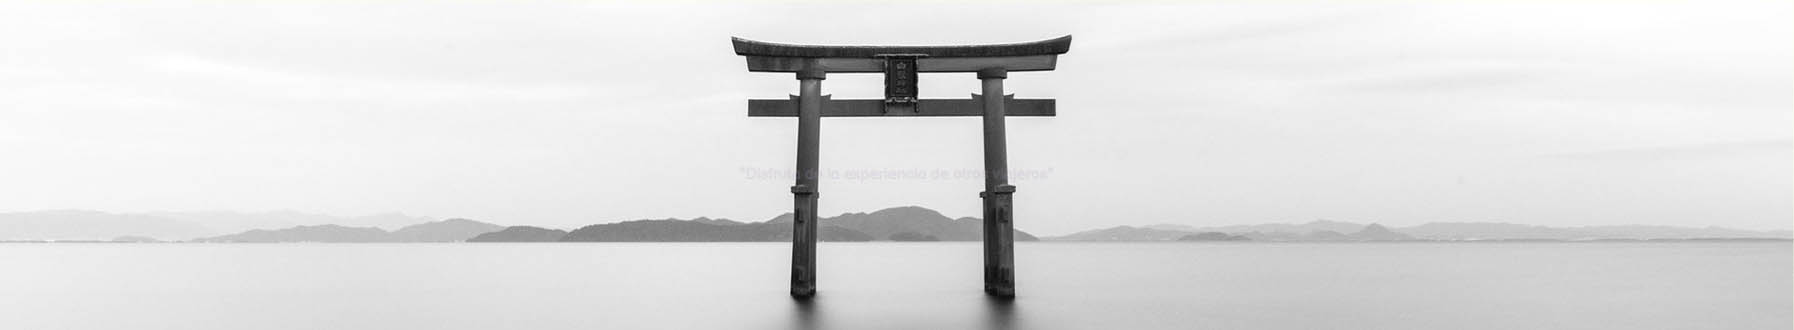
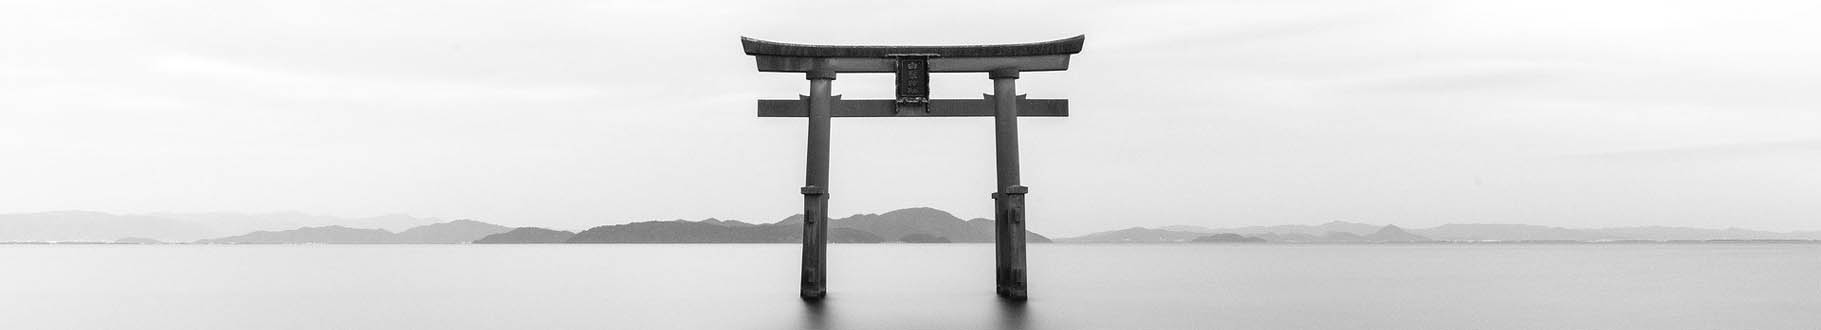
Terminada web en grid

diff --git a/styles.css b/styles.css
@@ -37,6 +37,9 @@ a{
             .nav{
                 grid-template-columns: repeat(autofill, min-content);
             }
+            .nav-mobil{
+                display: none;
+            }
                 .nav a{
                     font-size: 14px;
                     padding: 0 10px;
@@ -62,21 +65,21 @@ a{
                 }
         .texto-principal{
             background: url(imagenes/cabecera1800px.jpg);
-            background-position:50% 65%;
+            background-position:center;
             background-repeat: no-repeat;
             background-attachment: content;
             background-size: cover;
             display: flex;
             align-items: center;
             justify-content: center;
-            height: 200px;
+            height: 330px;
         }    
             h1{
                 color: #e99592;
                 opacity: 80%;
                 background: rgab(0,0,0,.1);
                 font-family: 'Montserrat', serif;
-                font-size:8px;
+                font-size:18px;
                 font-weight: 300px;
                 text-align: center;
                 line-height: 1; /*espacio entrelinea*/           
@@ -140,8 +143,6 @@ a{
         .aside{
             background: #e9e9e9;
             margin: 0px 5px 10px 0;
-            display: flex; 
-            flex-flow: column nowrap;   
         }
             .publicidad{
                 color: #fff;
@@ -159,12 +160,13 @@ a{
         margin: 20px 0;
     }
         .pie{
+            font-size: 9px;
             text-align: center;
         }
 
         
 @media all and (max-width: 800px){
-    .section{
+.section{
         grid-template-columns: 1fr;
         }
 .aside{
@@ -187,11 +189,12 @@ a{
 }
 @media all and (max-width: 400px){    
     .header{
+        display: grid;
         grid-template-columns: 1fr;
-        display: flex;
+        grid-template-rows: auto auto;
         justify-content: center;
         align-items: flex-start;
-        height: 300px;
+        height: 310px;
     }
     .menu{
         grid-template-columns: 1fr;
@@ -199,10 +202,21 @@ a{
     .nav{
         display: none;
     }
+    .nav-mobil{
+        display: grid;
+        grid-template-columns: repeat(5, 1fr);
+    }
+        .nav-mobil a{
+            font-size: 14px;
+            padding: 0 10px;
+            letter-spacing: 2px;
+        }
+        .nav-mobil a:hover{
+            color: #e99592;
+        }
     
     .social{
-        flex-flow: row nowrap;
-        flex: 1 1 100%;
+        display: flex;
         justify-content: space-around;
     }
     .social a{
@@ -214,10 +228,17 @@ a{
         padding: 0 10px;
     }
     .texto-principal h1{
-        grid-template-columns: 1fr;
         font-size: 12px;
-    }
+    }  grid-template-columns: 1fr;
+
     .articulos{
         grid-template-columns: 1fr;
+        grid-template-rows: repeat(5, auto);
+    }
+    .navegacion{
+        grid-column: span 1;
+    }
+    .pie{
+        font-size: 8px;
     }
     }

diff --git a/index.html b/index.html
@@ -30,6 +30,13 @@
                     <a href="#"><i class="fas fa-plane"></i> Vuelos</a>
                     <a href="#"><i class="fas fa-envelope"></i> Contacto</a>
                 </nav>
+                <nav class="nav-mobil">
+                    <a href="#"><i class="fas fa-home"></i></a>
+                    <a href="#"><i class="fas fa-route"></i></a>
+                    <a href="#"><i class="fas fa-concierge-bell"></i></a>
+                    <a href="#"><i class="fas fa-plane"></i></a>
+                    <a href="#"><i class="fas fa-envelope"></i></a>
+                </nav>
                 <div class="social">
                     <div><a href="#"><i class="fab fa-twitter"></i></a></div>
                     <div><a href="#"><i class="fab fa-facebook-f"></i></a></div>
